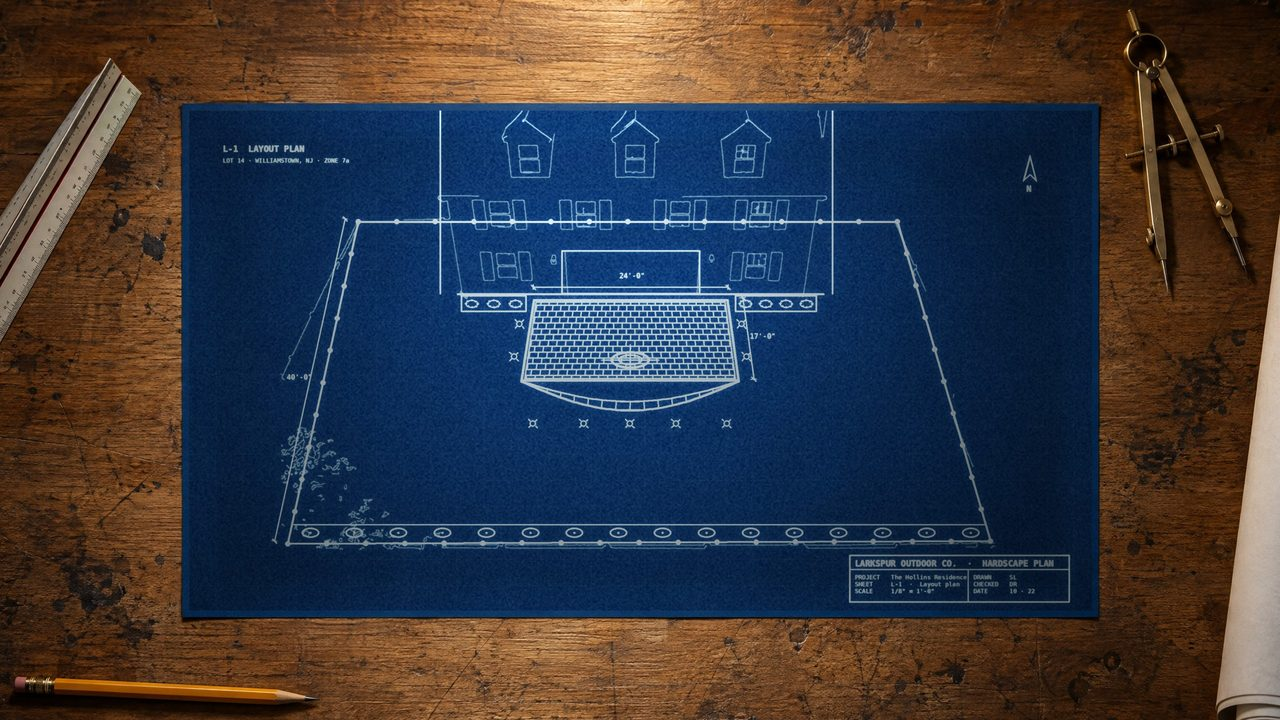
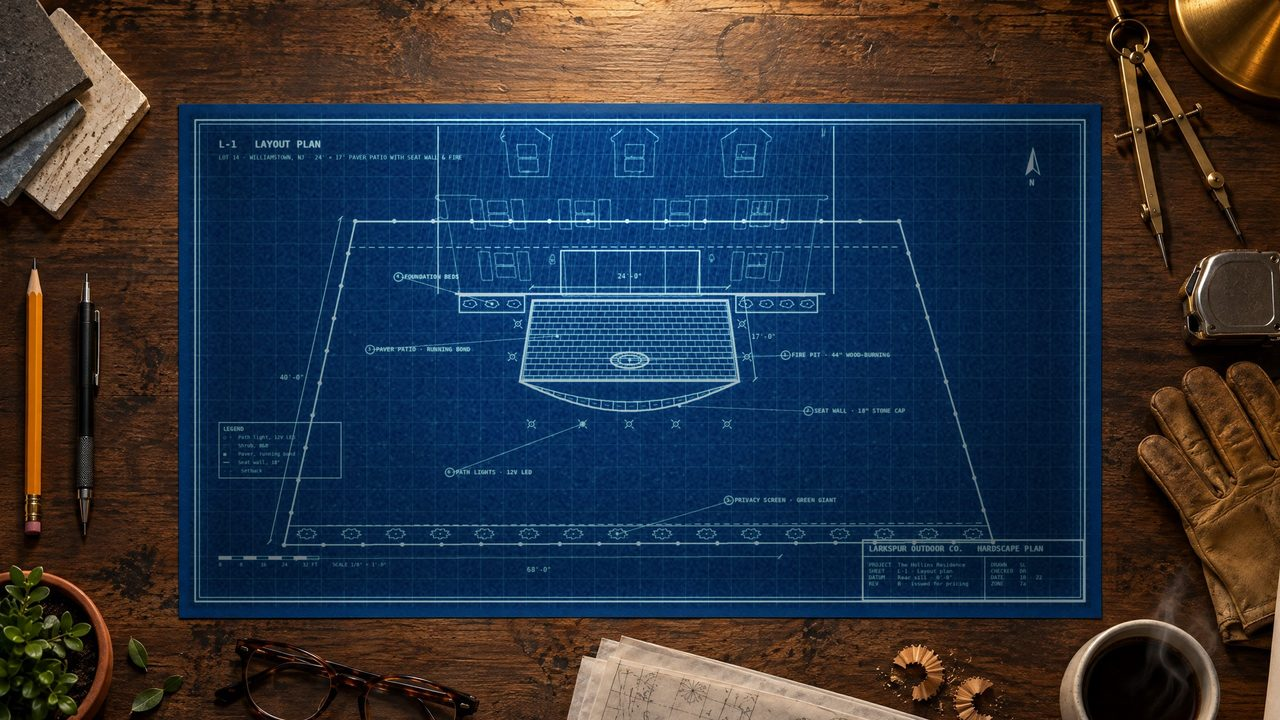
Larkspur demo: richer workbench opener with a proper L-1 plan sheet
Claude-Session: https://claude.ai/code/session_01YUM58pQzzCwZw7wn9K1kUG

diff --git a/larkspur-outdoor/index.html b/larkspur-outdoor/index.html
@@ -245,7 +245,7 @@ body.light-head .top .btn-fill{background:var(--ink);color:var(--paper)}
   requestAnimationFrame(loop);
   window.addEventListener('resize', function(){ sizeCanvas(); needDraw=true; });
   // push-in: the sheet is an axis-aligned rectangle in the desk photo, so a uniform scale about its center lands exactly on frame 1
-  var SHEET={x0:0.14766,y0:0.15347,x1:0.85313,y1:0.84792};
+  var SHEET={x0:0.14414,y0:0.15208,x1:0.85586,y1:0.85};
   function deskTransform(t){
     var w=heroPhotos.clientWidth, h=heroPhotos.clientHeight;
     var iw=2560, ih=1440, sc=Math.max(w/iw,h/ih), dw=iw*sc, dh=ih*sc, ox=(w-dw)/2, oy=(h-dh)/2;
